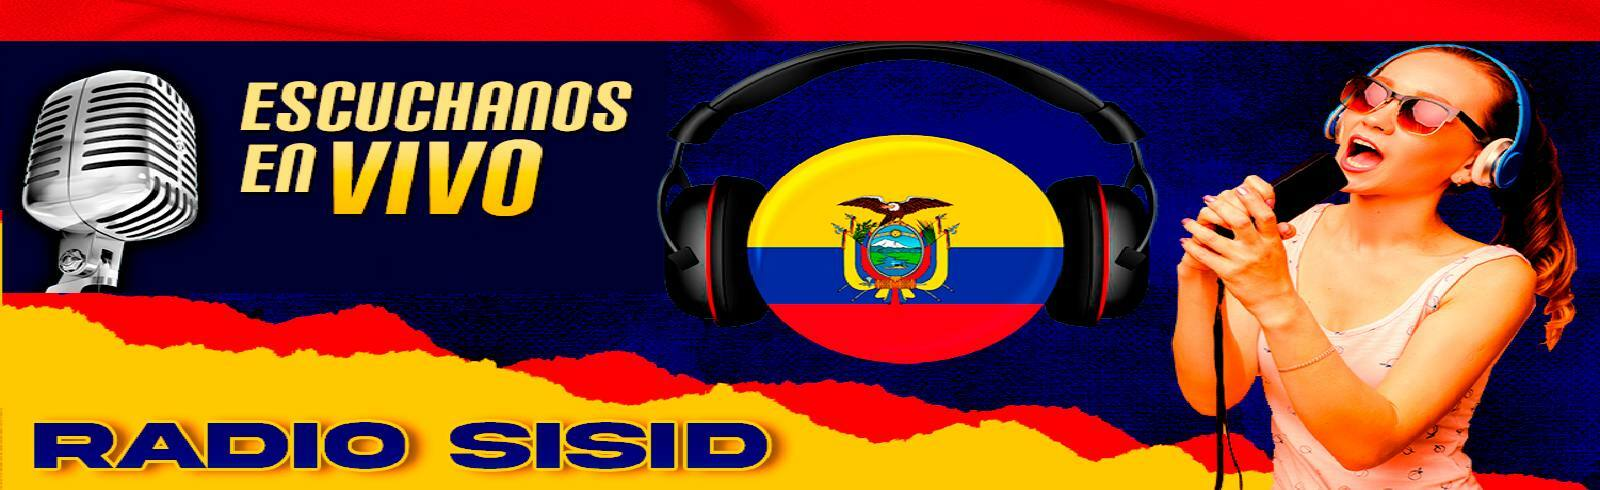
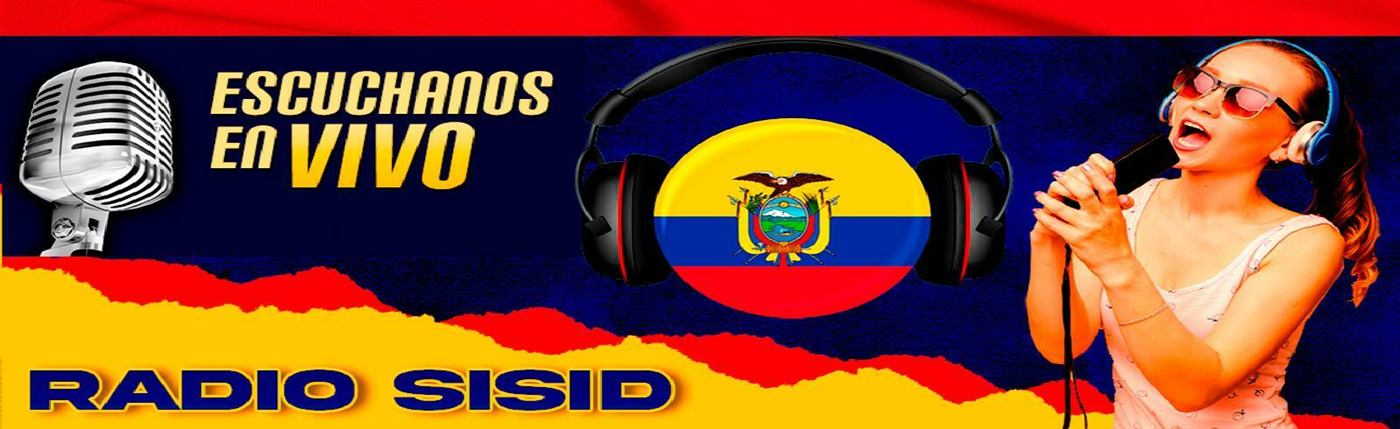
perf: compress images 90%, fix blank page on first load

diff --git a/src/features/Gallery/Gallery.tsx b/src/features/Gallery/Gallery.tsx
@@ -1,11 +1,11 @@
 import { useEffect, useState } from "react";
 import { SECTION_IDS } from "@/constants/routes";
-import imagen2Src from "@/assets/img/imagen2.png";
-import foto1Src from "@/assets/img/foto1.png";
-import foto2Src from "@/assets/img/foto2.png";
-import bienvenidosSrc from "@/assets/img/bienvenidos.png";
+import imagen2Src from "@/assets/img/imagen2.jpg";
+import foto1Src from "@/assets/img/foto1.jpg";
+import foto2Src from "@/assets/img/foto2.jpg";
+import bienvenidosSrc from "@/assets/img/bienvenidos.jpg";
 import iglesiaSrc from "@/assets/img/iglesia.jpg";
-import iglesia2Src from "@/assets/img/iglesia2.png";
+import iglesia2Src from "@/assets/img/iglesia2.jpg";
 
 const FIRST_CARD_IMAGES = [
   { src: foto1Src, alt: "Imagen promocional 1" },

diff --git a/src/features/ContentSection/ContentSection.tsx b/src/features/ContentSection/ContentSection.tsx
@@ -2,7 +2,7 @@ import { PlayIcon, PauseIcon, SpeakerLoudIcon, SpeakerOffIcon, ChevronLeftIcon, 
 import { useEffect, useState, type ReactNode } from "react";
 import { APP_CONFIG } from "@/config";
 import { useAudio } from "@/context";
-import image3Src from "@/assets/img/radio-sisid.png";
+import image3Src from "@/assets/img/radio-sisid.jpg";
 
 const VIDEOS = [
   ...(APP_CONFIG.VIDEO_EMBED_URL ? [APP_CONFIG.VIDEO_EMBED_URL] : []),

diff --git a/src/features/Hero/Hero.tsx b/src/features/Hero/Hero.tsx
@@ -1,8 +1,8 @@
 import { useEffect, useState } from "react";
 import { APP_CONFIG } from "@/config";
 import { SECTION_IDS } from "@/constants/routes";
-import bannerDefault from "@/assets/img/bannernuevo.png";
-import djGato from "@/assets/img/djgato.png";
+import bannerDefault from "@/assets/img/bannernuevo.jpg";
+import djGato from "@/assets/img/djgato.jpg";
 
 const SLIDES = [bannerDefault, djGato];
 const INTERVAL_MS = 4500;
